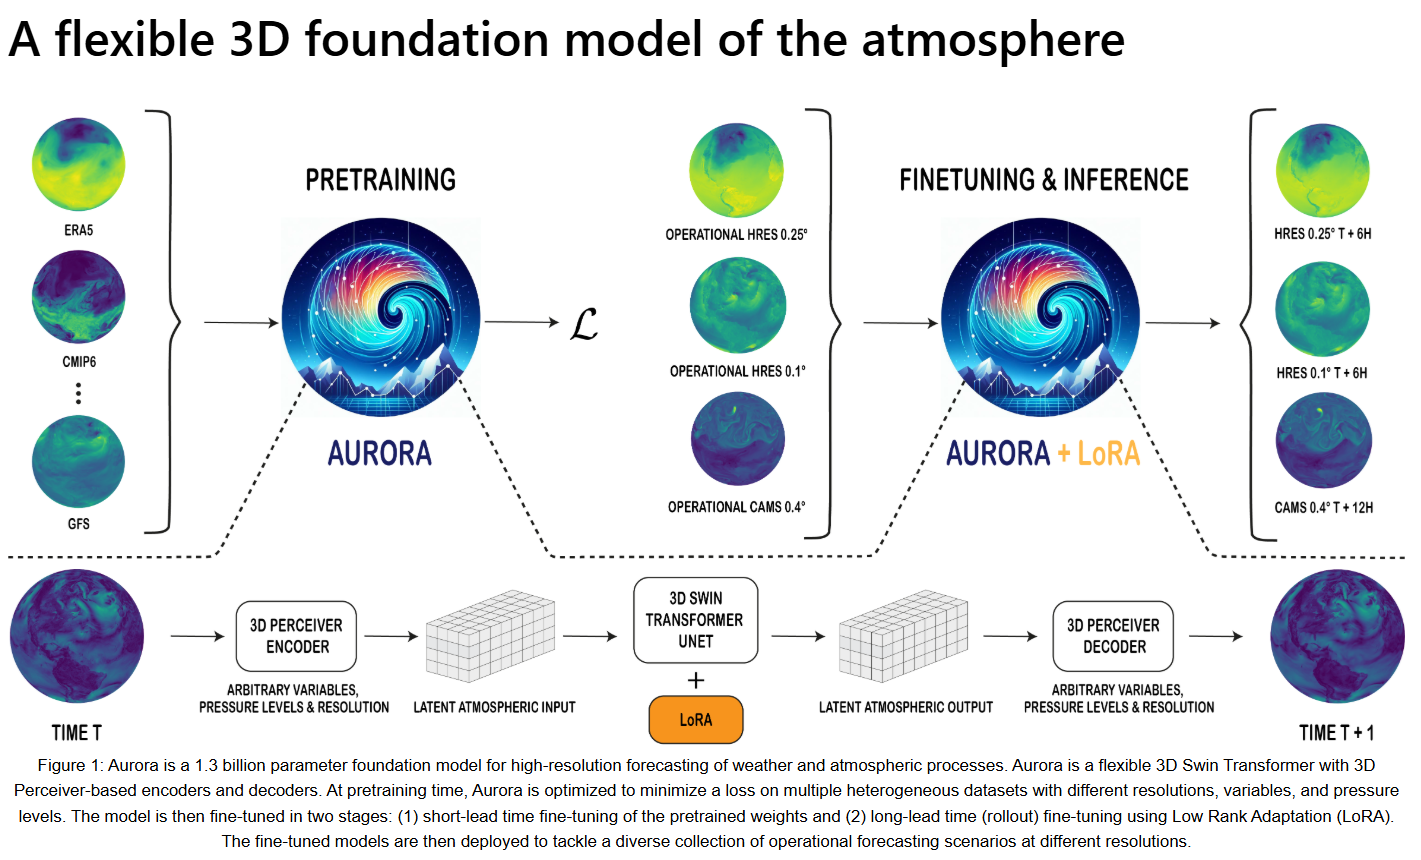
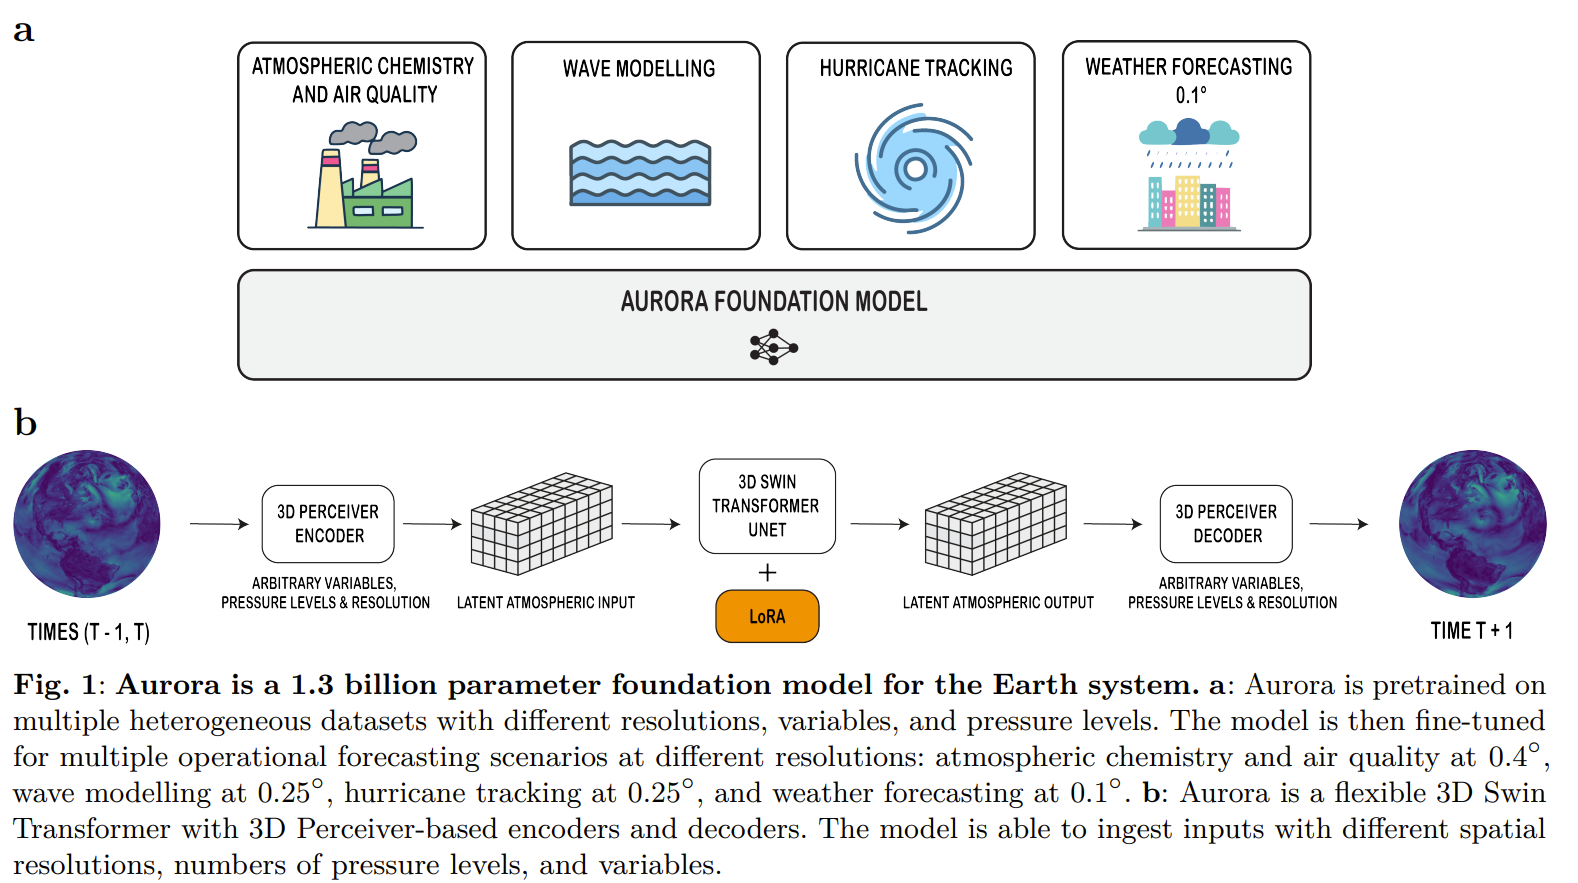
auror without discussions

diff --git a/content/posts/2026-01-10-aurora/index.md b/content/posts/2026-01-10-aurora/index.md
@@ -9,68 +9,87 @@ TocOpen: true
 ShowReadingTime: true
 math: true
 ---
-With a major impact of climate change, we are facing more and more challenging and extreme weather. During the New Year period of 2026, the named winter event Anna hit Sweden with strong winds and heavy snowfall. This leads to power outages, disrupted railway traffic, dangerous road conditions, etc. In Gävleborg in particular, it caused severe disruption—including widespread outages and major travel and transport paralysis—prompting authorities to issue a red warning. Can we know better where, when, and how such events will come for a better preparation for the future? We are expecting an answer from AI for science. And Microsoft research AI for science provides a foundation model AURORA for this.
-With a major impact of climate change, we are facing more and more challenging and extreme weather. During the New Year period of 2026, the named winter event Anna hit Sweden with strong winds and heavy snowfall. This leads to power outages, disrupted railway traffic, dangerous road conditions, etc. In Gävleborg in particular, it caused severe disruption—including widespread outages and major travel and transport paralysis—prompting authorities to issue a red warning. Can we know better where, when, and how such events will come for a better preparation for the future? We are expecting an answer from AI for science. And Microsoft research AI for science provides a foundation model [AURORA](https://doi.org/10.1038/s41586-025-09005-y) for this.
+With the major impact of climate change, we are facing increasingly challenging and extreme weather. During the New Year period of 2026, the named winter event Anna hit Sweden with strong winds and heavy snowfall. This led to power outages, disrupted railway traffic, dangerous road conditions, etc. In Gävleborg in particular, it caused severe disruption—including widespread outages and major travel and transport paralysis—prompting authorities to issue a red warning. Can we know better where, when, and how such events will come for a better preparation for the future? We are expecting an answer from AI for science. And Microsoft Research AI for Science provides a foundation model [AURORA](https://doi.org/10.1038/s41586-025-09005-y) for this.
 
-In this post, let's learn about AURORA and discuss: what is a foundation model? What are we expecting from foundation models? What are beneficial discussions for the community? What is beneficial analysis in experiments? What are the other well known baseline models? Should we worry about data for AI for science compared with web-image-text for foundation models? A thought about finetuning regime, a thought about multi-task design. not so multi-tasks like text generation or mask text generation.
+In this post, let's have a look at AURORA together.
 
 ## Problem
 
-Prediction accuracy and computational efficiency 
+According to the paper, traditional earth system forecasting models are computationally demanding, built with high engineering complexity, and use approximations with sub-grid scale processes. In contrast, AI-based methods outperform traditional methods, especially on the global medium-range weather forecasting at 0.25 resolution. Compared with other AI-based forecasting models, AURORA with a larger number of parameters is trained on a diverse range of datasets including forecasts, analysis data, reanalysis data, and climate simulations. It achieves state-of-the-art performance on several forecasting tasks.
 
-Computationally demanding: purpose-built supercomputers
-Complexity: maintained, engineering
-Accuracy: Approximation with sub-grids
 
-Advantages of AI-based methods
-Focus on global medium-range weather forecasting at 0.25 resolution
-Leave the others like ocean dynamics, wave modelling, and atmospheric chemistry, and complex extreme weather prediction for future works
-
-Not so convincing ...
+> **Note:** On the one hand, the limitations are actually general problems of all systems, which don't seem specific to the non-AI forecasting methods. On the other hand, the advantages of using current deep learning methods can be from the ability of generalization like transfer learning, zero-shot and few-shot learning. Moreover, for using foundation models, the advantage can be training a system for all tasks at the same time with all possible datasets instead of using one dataset for one task. We expect that in this way generalization can be achieved at scale. This requires a proper collection of datasets and a capable model. Moreover, AURORA can be fine-tuned for different downstream tasks with a good performance as well.
 
 ## Model
 
-### Deep Neural network architecture
+### Deep Neural network Modules
 
-Perceiver-based encoder-decoder:
-
-
-Reason for why using Perceiver-based encoder:
-
-* multi-modality and dimensionality
-
-* not sure performance why, like diffusion models can not handle high-dimensionality 
-
-A processor: Swin Transformer
-
-* not sure why so, vs plain Transformer?
-
-Training strategy: MAE for pretraining, one-step prediction
-
-* this can be too small steps, what if high-order dynamics
-* Like Latent diffusion for improvement?
-* More probabilistic capture
-* This is not multi-task, it is purely prediction...
-
-Training recipes:
-
-* Adam,
-* step size, ...
-
-Datasets:
-
-* Multi-modality data with different pressures and resolutions
-  
-
+Each module deserves a separate blog, so only high-level descriptions are introduced here.
 
 [![Diagram of Aurora, a flexible 3D foundation model of the atmosphere: pretrained on heterogeneous datasets (ERA5, CMIP6, GFS) and then fine-tuned with LoRA for operational forecasting at different resolutions; the model uses 3D Perceiver encoders/decoders around a 3D Swin Transformer U-Net to predict atmospheric fields from time T to T+1.](figures/image.png)](https://www.microsoft.com/en-us/research/blog/introducing-aurora-the-first-large-scale-foundation-model-of-the-atmosphere/)
-
 *Figure: Aurora workflow and architecture (pretraining → fine-tuning & inference). Source: [Microsoft Research blog post](https://www.microsoft.com/en-us/research/blog/introducing-aurora-the-first-large-scale-foundation-model-of-the-atmosphere/).*
 
 
-Some facts about training 
-Some facts about performance
+**Perceiver-based encoder-decoder ([Jaegle et al., 2022](https://openreview.net/forum?id=fILj7WpI-g)).** A primary reason for using Perceiver is to deal with input data with different formats, modalities, and dimensionality. And Perceiver IO ([Jaegle et al., 2022](https://openreview.net/forum?id=fILj7WpI-g)) was proposed for dealing with this problem. Moreover, reducing the dimensionality makes the processor lightweight. One more potential benefit is that the processor may have difficulties in handling high-dimensional data, e.g., Transformer-based diffusion models often rely on latent diffusion model solutions.
+
+> Normally, the latent representation with encoders is expected to be able to learn abstract concepts by compression and reconstruction. Representation with Transformers is interesting, that generalize the [CLS] token trick. A concern here is that whether this way of learning representation can lead to useful compact representation capturing essential dynamics for forecasting. Furthermore, whether the representation which is helpful for forecasting is helpful for other tasks.
+
+> Query-based decoding was proposed in ([Jaegle et al., 2022](https://openreview.net/forum?id=fILj7WpI-g)) which is used for multi-modal foundation models like Flamingo ([Alayrac et al., 2022](https://proceedings.neurips.cc/paper_files/paper/2022/hash/960a172bc7fbf0177ccccbb411a7d43d-Abstract-Conference.html)) and BLIP-2 ([Li et al., 2023](https://proceedings.mlr.press/v202/li23q.html)). The latent representation works as an abstraction together with an output query to generate the target in the expected domains.
+
+
+**A processor: Modified Swin Transformer U-Net ([Liu et al., 2021](https://openaccess.thecvf.com/content/ICCV2021/html/Liu_Swin_Transformer_Hierarchical_Vision_Transformer_Using_Shifted_Windows_ICCV_2021_paper.html); [Liu et al., 2022](https://openaccess.thecvf.com/content/CVPR2022/html/Liu_Video_Swin_Transformer_CVPR_2022_paper.html)).**
+Originally, Swin Transformer was proposed for dealing with the computational issues of Transformers when applied to tasks requiring dense prediction at the pixel level like segmentation tasks. It achieves linear computational complexity by restricting the global attention over all patches of an image to be within windows of an image. Moreover, it uses linear layers for merging patches and changing the dimensionalities.
+
+> For dense prediction, it is not necessary to be handled with Swin Transformer, like SAM 1-3 ([Kirillov et al., 2023](https://openaccess.thecvf.com/content/ICCV2023/html/Kirillov_Segment_Anything_ICCV_2023_paper.html); [Ravi et al., 2024](https://arxiv.org/abs/2408.00714); [Carion et al., 2025](https://arxiv.org/abs/2511.16719)). So it remains interesting to see how a plain ViT ([Dosovitskiy et al., 2021](https://openreview.net/forum?id=YicbFdNTTy)) would perform.
+
+**Training recipes.**  
+> Some thoughts about the training objective: It is reasonable that for computational considerations, one-step prediction with one past step is used; however, it remains interesting to see the benefits of using more information from temporal perspective and, a probabilistic perspective, like latent diffusion models.
+
+| Pretraining aspect         |                                                                                                     |
+| -------------------------- | ---------------------------------------------------------------------------------------------------------------------- |
+| Objective                  | Minimize **next time-step (6-hour lead time) MAE**                                                                     |
+| Steps                      | **150k steps**                                                                                                         |
+| Hardware                   | **32× NVIDIA A100 GPUs**                                                                                               |
+| Wall-clock time            | **~2.5 weeks**                                                                                                         |
+| Batch size                 | **1 per GPU** (global batch size 32)                                                                                   |
+| Data used (high level)     | Mixture of **forecasts, analysis, reanalysis, and climate simulations** (details in Supplementary C.2)                 |
+| Optimizer                  | **AdamW**                                                                                                              |
+| Learning rate schedule     | **Linear warm-up** from 0 for **1k steps**, then **(half) cosine decay**; base LR **5e−4**, decays to **1/10** by end  |
+| Weight decay               | **5e−6**                                                                                                               |
+| Regularization             | **Drop path (stochastic depth)** with probability **0.2**                                                              |
+| Precision                  | **bf16 mixed precision**                                                                                               |
+| Memory/parallel efficiency | **Activation checkpointing** (backbone layers) + **shard gradients across GPUs**                                       |
+
+## Discussion
+
+* What is a foundation model? 
+* What are we expecting from foundation models? 
+* What are beneficial discussions for the AI for science community? 
+* What is beneficial analysis in experiments? 
+* Should we worry about data for AI for science compared with web-image-text for other foundation models?
+* A concern on finetuning regime.
+
+
+## Further Reading
+
+* Swin Transformer ([Liu et al., 2021](https://openaccess.thecvf.com/content/ICCV2021/html/Liu_Swin_Transformer_Hierarchical_Vision_Transformer_Using_Shifted_Windows_ICCV_2021_paper.html))
+* Perceiver IO ([Jaegle et al., 2022](https://openreview.net/forum?id=fILj7WpI-g))
+* ClimaX ([Nguyen et al., 2023](https://arxiv.org/abs/2301.10343))
+* GraphCast ([Lam et al., 2023](https://www.science.org/doi/10.1126/science.adi2336))
+
+
 
 ## References
 
-1. Bodnár, C., et al. (2025). [A Foundation Model for the Earth System](https://doi.org/10.1038/s41586-025-09005-y). *Nature*.
+* Dosovitskiy, A., et al. (2021). [An Image is Worth 16x16 Words: Transformers for Image Recognition at Scale](https://openreview.net/forum?id=YicbFdNTTy). *ICLR*.
+* Liu, Z., et al. (2021). [Swin Transformer: Hierarchical Vision Transformer using Shifted Windows](https://openaccess.thecvf.com/content/ICCV2021/html/Liu_Swin_Transformer_Hierarchical_Vision_Transformer_Using_Shifted_Windows_ICCV_2021_paper.html). *ICCV*.
+* Alayrac, J. B., et al. (2022). [Flamingo: a Visual Language Model for Few-Shot Learning](https://proceedings.neurips.cc/paper_files/paper/2022/hash/960a172bc7fbf0177ccccbb411a7d43d-Abstract-Conference.html). *NeurIPS*.
+* Jaegle, A., et al. (2022). [Perceiver IO: A General Architecture for Structured Inputs & Outputs](https://openreview.net/forum?id=fILj7WpI-g). *ICLR*.
+* Liu, Z., et al. (2022). [Video Swin Transformer](https://openaccess.thecvf.com/content/CVPR2022/html/Liu_Video_Swin_Transformer_CVPR_2022_paper.html). *CVPR*.
+* Kirillov, A., et al. (2023). [Segment Anything](https://openaccess.thecvf.com/content/ICCV2023/html/Kirillov_Segment_Anything_ICCV_2023_paper.html). *ICCV*.
+* Lam, R., et al. (2023). [Learning skillful medium-range global weather forecasting](https://www.science.org/doi/10.1126/science.adi2336). *Science*.
+* Li, J., et al. (2023). [BLIP-2: Bootstrapping Language-Image Pre-training with Frozen Image Encoders and Large Language Models](https://proceedings.mlr.press/v202/li23q.html). *ICML*.
+* Nguyen, T., et al. (2023). [ClimaX: A foundation model for weather and climate](https://arxiv.org/abs/2301.10343). *ICML*.
+* Ravi, N., et al. (2024). [SAM 2: Segment Anything in Images and Videos](https://arxiv.org/abs/2408.00714). *arXiv*.
+* Bodnár, C., et al. (2025). [A Foundation Model for the Earth System](https://doi.org/10.1038/s41586-025-09005-y). *Nature*.
+* Carion, N., et al. (2025). [SAM 3: Segment Anything with Concepts](https://arxiv.org/abs/2511.16719). *arXiv*.
